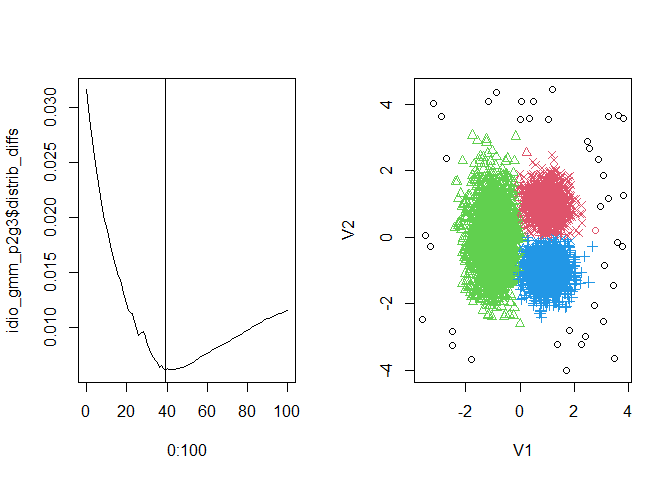
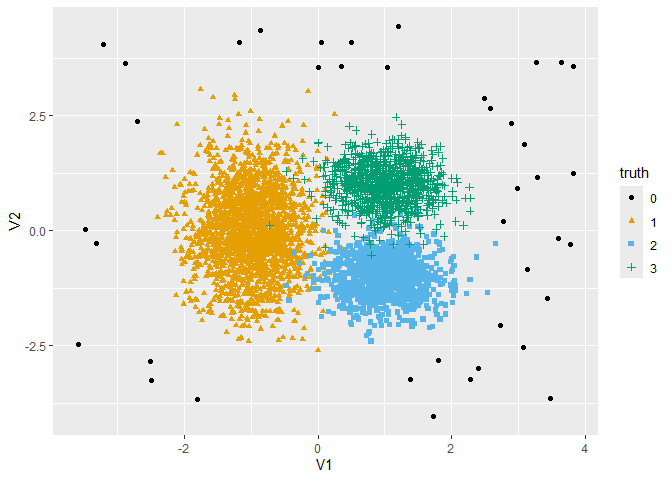
README

diff --git a/README.md b/README.md
@@ -15,6 +15,7 @@ Ultán P. Doherty
   model with response variable outliers.
 
 ``` r
+library(ggplot2)
 devtools::load_all()
 ```
 
@@ -28,31 +29,53 @@ mu_list <- list(c(-1, 0), c(+1, -1), c(+1, +1))
 sigma_list <- list(diag(c(0.2, 4 * 0.2)),
                   diag(c(0.2, 0.2)),
                   diag(c(0.2, 0.2)))
+
 noisy_gmm_p2g3 <- simulate_noisy_gmm(
  n_vec, mu_list, sigma_list,
  outlier_num = 40, seed = 123, crit_val = 0.9999,
  unif_range_multiplier = 1.5
 )
-par(mfrow = c(1, 1))
-plot(noisy_gmm_p2g3[, 1:2],
-     col = 1 + noisy_gmm_p2g3[, 3], pch = 1 + noisy_gmm_p2g3[, 3])
 ```
 
-![](README_files/figure-gfm/unnamed-chunk-2-1.png)<!-- -->
+``` r
+ggplot(as.data.frame(noisy_gmm_p2g3),
+       aes(x = V1, y = V2,
+           colour = as.factor(labels), shape = as.factor(labels))) +
+  geom_point() +
+  labs(colour = "truth", shape = "truth") +
+  ggokabeito::scale_colour_okabe_ito(order = c(9, 1, 2, 3))
+```
+
+![](README_files/figure-gfm/unnamed-chunk-3-1.png)<!-- -->
 
 ### `idio_gmm`
 
 ``` r
 idio_gmm_p2g3 <- idio_gmm(noisy_gmm_p2g3[, 1:2], comp_num = 3, max_out = 100,
                          print_interval = Inf)
-par(mfrow = c(1, 2))
-plot(0:100, idio_gmm_p2g3$distrib_diffs, type = "l")
-abline(v = idio_gmm_p2g3$outlier_num)
-plot(noisy_gmm_p2g3[, 1:2], col = idio_gmm_p2g3$gmm_labels,
-   pch = 1 + noisy_gmm_p2g3[, 3])
 ```
 
-![](README_files/figure-gfm/unnamed-chunk-3-1.png)<!-- -->
+``` r
+ggplot(cbind(outliers_removed = 0:100, as.data.frame(idio_gmm_p2g3)),
+       aes(x = outliers_removed, y = distrib_diffs)) +
+  geom_line() +
+  geom_point() +
+  geom_vline(aes(xintercept = outlier_num))
+```
+
+![](README_files/figure-gfm/unnamed-chunk-5-1.png)<!-- -->
+
+``` r
+ggplot(as.data.frame(noisy_gmm_p2g3),
+       aes(x = V1, y = V2,
+           colour = as.factor(idio_gmm_p2g3$gmm_labels),
+           shape = as.factor(1 + labels))) +
+  geom_point() +
+  labs(colour = "idio_gmm", shape = "truth") +
+  ggokabeito::scale_colour_okabe_ito(order = c(9, 1, 2, 3))
+```
+
+![](README_files/figure-gfm/unnamed-chunk-6-1.png)<!-- -->
 
 ### `simulate_noisy_mlr`
 
@@ -62,27 +85,51 @@ mu_list <- list(+1)
 sigma_list <- list(as.matrix(0.1))
 beta_list <- list(c(1, 1))
 error_sd_vec <- c(0.1)
+
 noisy_mlr_p1 <- simulate_noisy_mlr(n_vec, mu_list, sigma_list, beta_list,
                                    error_sd_vec,
                                    outlier_num = 20, seed = 123,
                                    crit_val = 0.9999)
-par(mfrow = c(1, 1))
-plot(x = noisy_mlr_p1$covariates[, 1], y = noisy_mlr_p1$responses,
-     col = 1 + noisy_mlr_p1$labels, pch = 1 + noisy_mlr_p1$labels)
 ```
 
-![](README_files/figure-gfm/unnamed-chunk-4-1.png)<!-- -->
+``` r
+ggplot(as.data.frame(noisy_mlr_p1),
+       aes(x = V1, y = responses,
+           colour = as.factor(labels), shape = as.factor(labels))) +
+  geom_point() +
+  labs(colour = "truth", shape = "truth") +
+  ggokabeito::scale_colour_okabe_ito(order = c(9, 1))
+```
+
+![](README_files/figure-gfm/unnamed-chunk-8-1.png)<!-- -->
 
 ### `idio_mlr`
 
 ``` r
 idio_mlr_p1 <- idio_mlr(noisy_mlr_p1$covariates, noisy_mlr_p1$responses,
                         max_out = 50, print_interval = Inf)
-par(mfrow = c(1, 2))
-plot(0:50, idio_mlr_p1$distrib_diffs, type = "l")
-abline(v = idio_mlr_p1$outlier_num)
-plot(x = noisy_mlr_p1$covariates[, 1], y = noisy_mlr_p1$responses,
-     pch = 1 + noisy_mlr_p1$labels, col = 1 + idio_mlr_p1$outlier_bool)
 ```
 
-![](README_files/figure-gfm/unnamed-chunk-5-1.png)<!-- -->
+``` r
+ggplot(data.frame(outliers_removed = 0:50,
+                  distrib_diffs = idio_mlr_p1$distrib_diffs,
+                  outlier_num = idio_mlr_p1$outlier_num),
+       aes(x = outliers_removed, y = distrib_diffs)) +
+  geom_line() +
+  geom_point() +
+  geom_vline(aes(xintercept = outlier_num))
+```
+
+![](README_files/figure-gfm/unnamed-chunk-10-1.png)<!-- -->
+
+``` r
+ggplot(as.data.frame(noisy_mlr_p1),
+       aes(x = V1, y = responses,
+           colour = as.factor(1 + idio_mlr_p1$outlier_bool),
+           shape = as.factor(1 + labels))) +
+  geom_point() +
+  labs(colour = "idio_mlr", shape = "truth") +
+  ggokabeito::scale_colour_okabe_ito(order = c(9, 1, 2, 3))
+```
+
+![](README_files/figure-gfm/unnamed-chunk-11-1.png)<!-- -->
